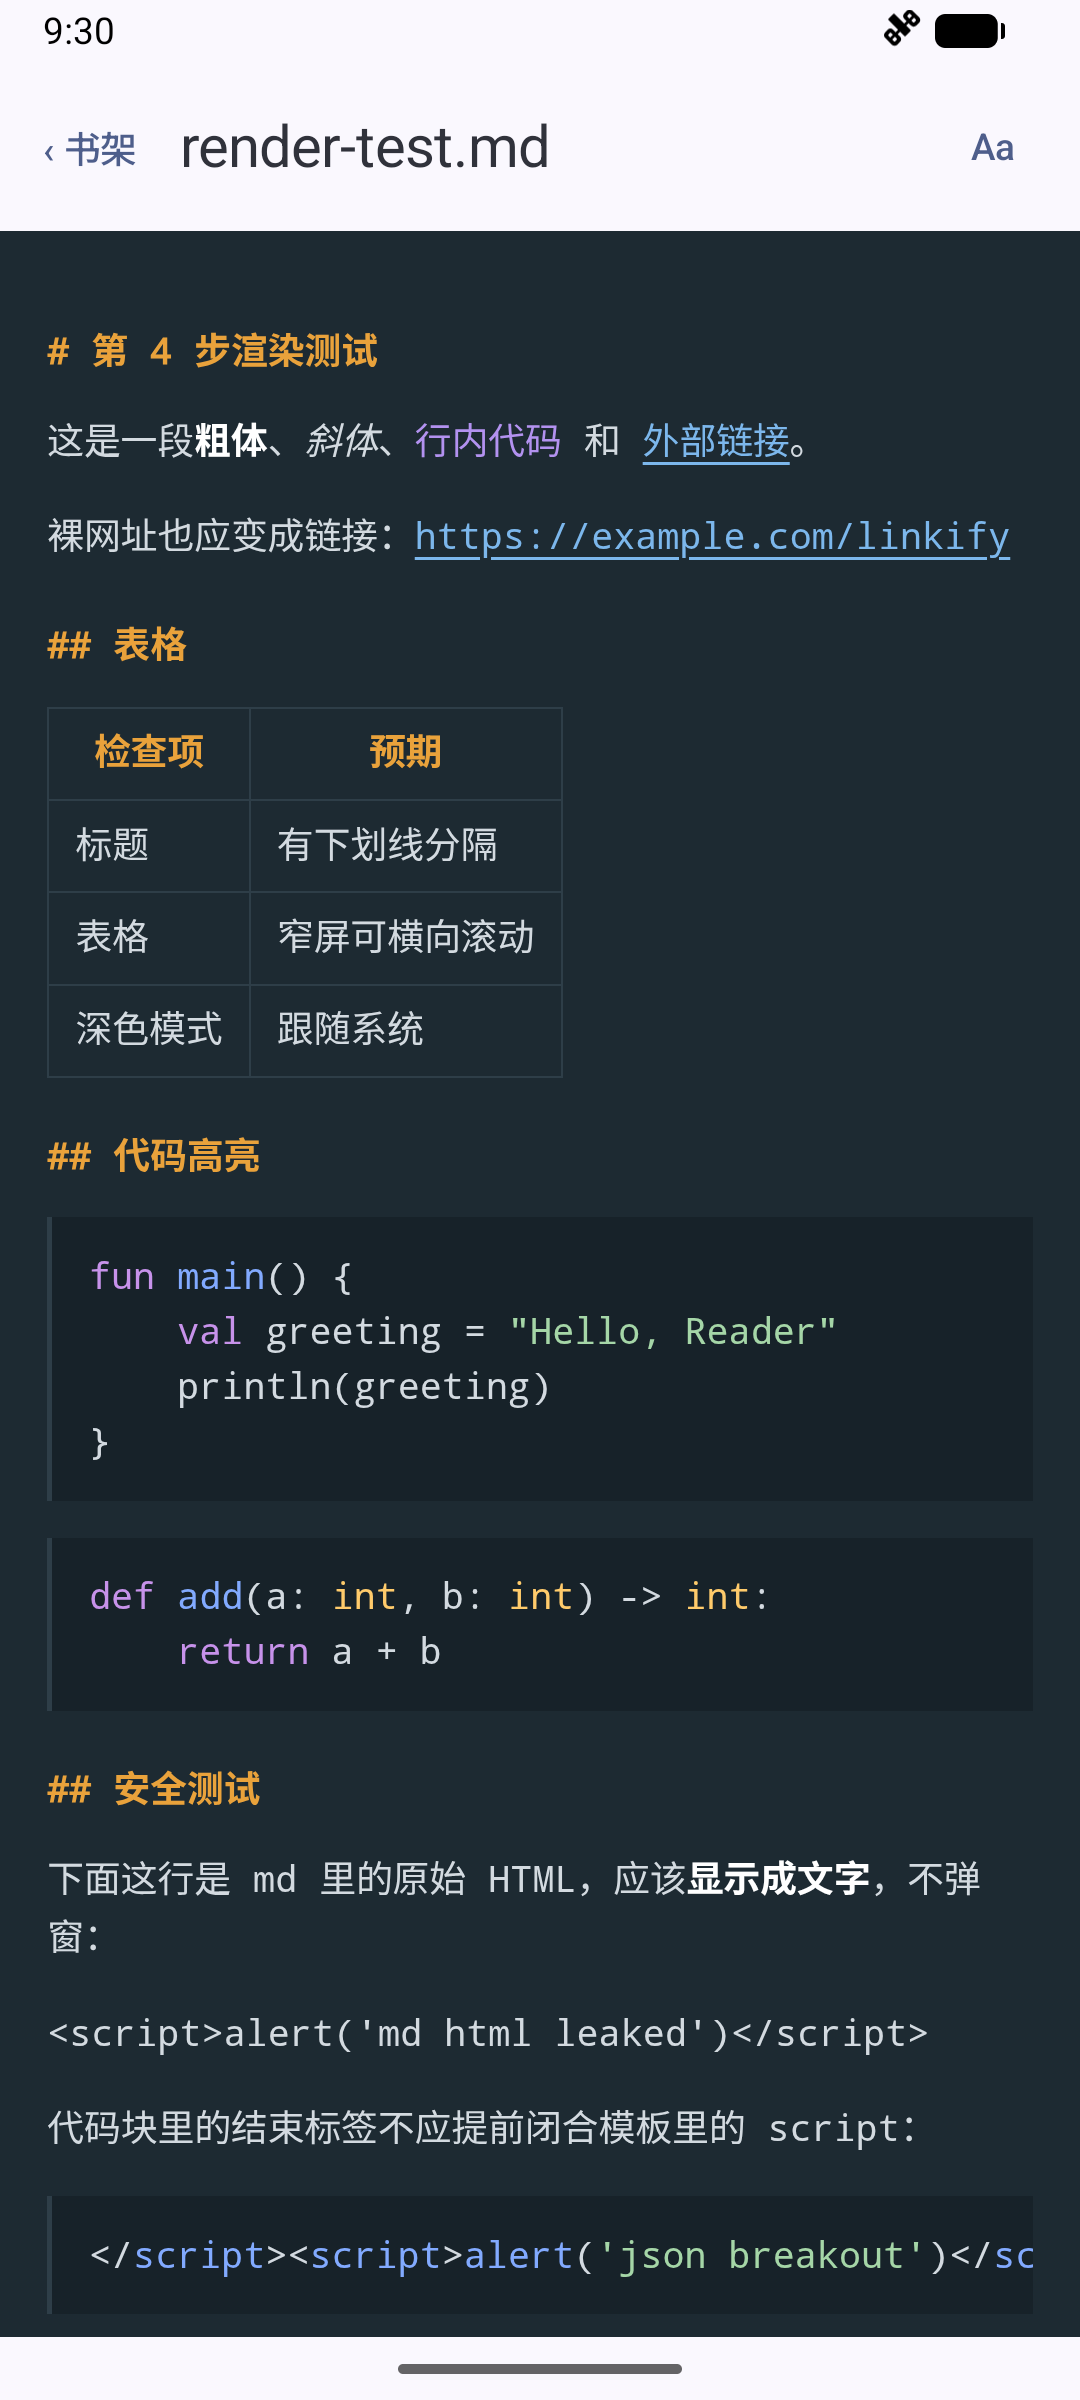
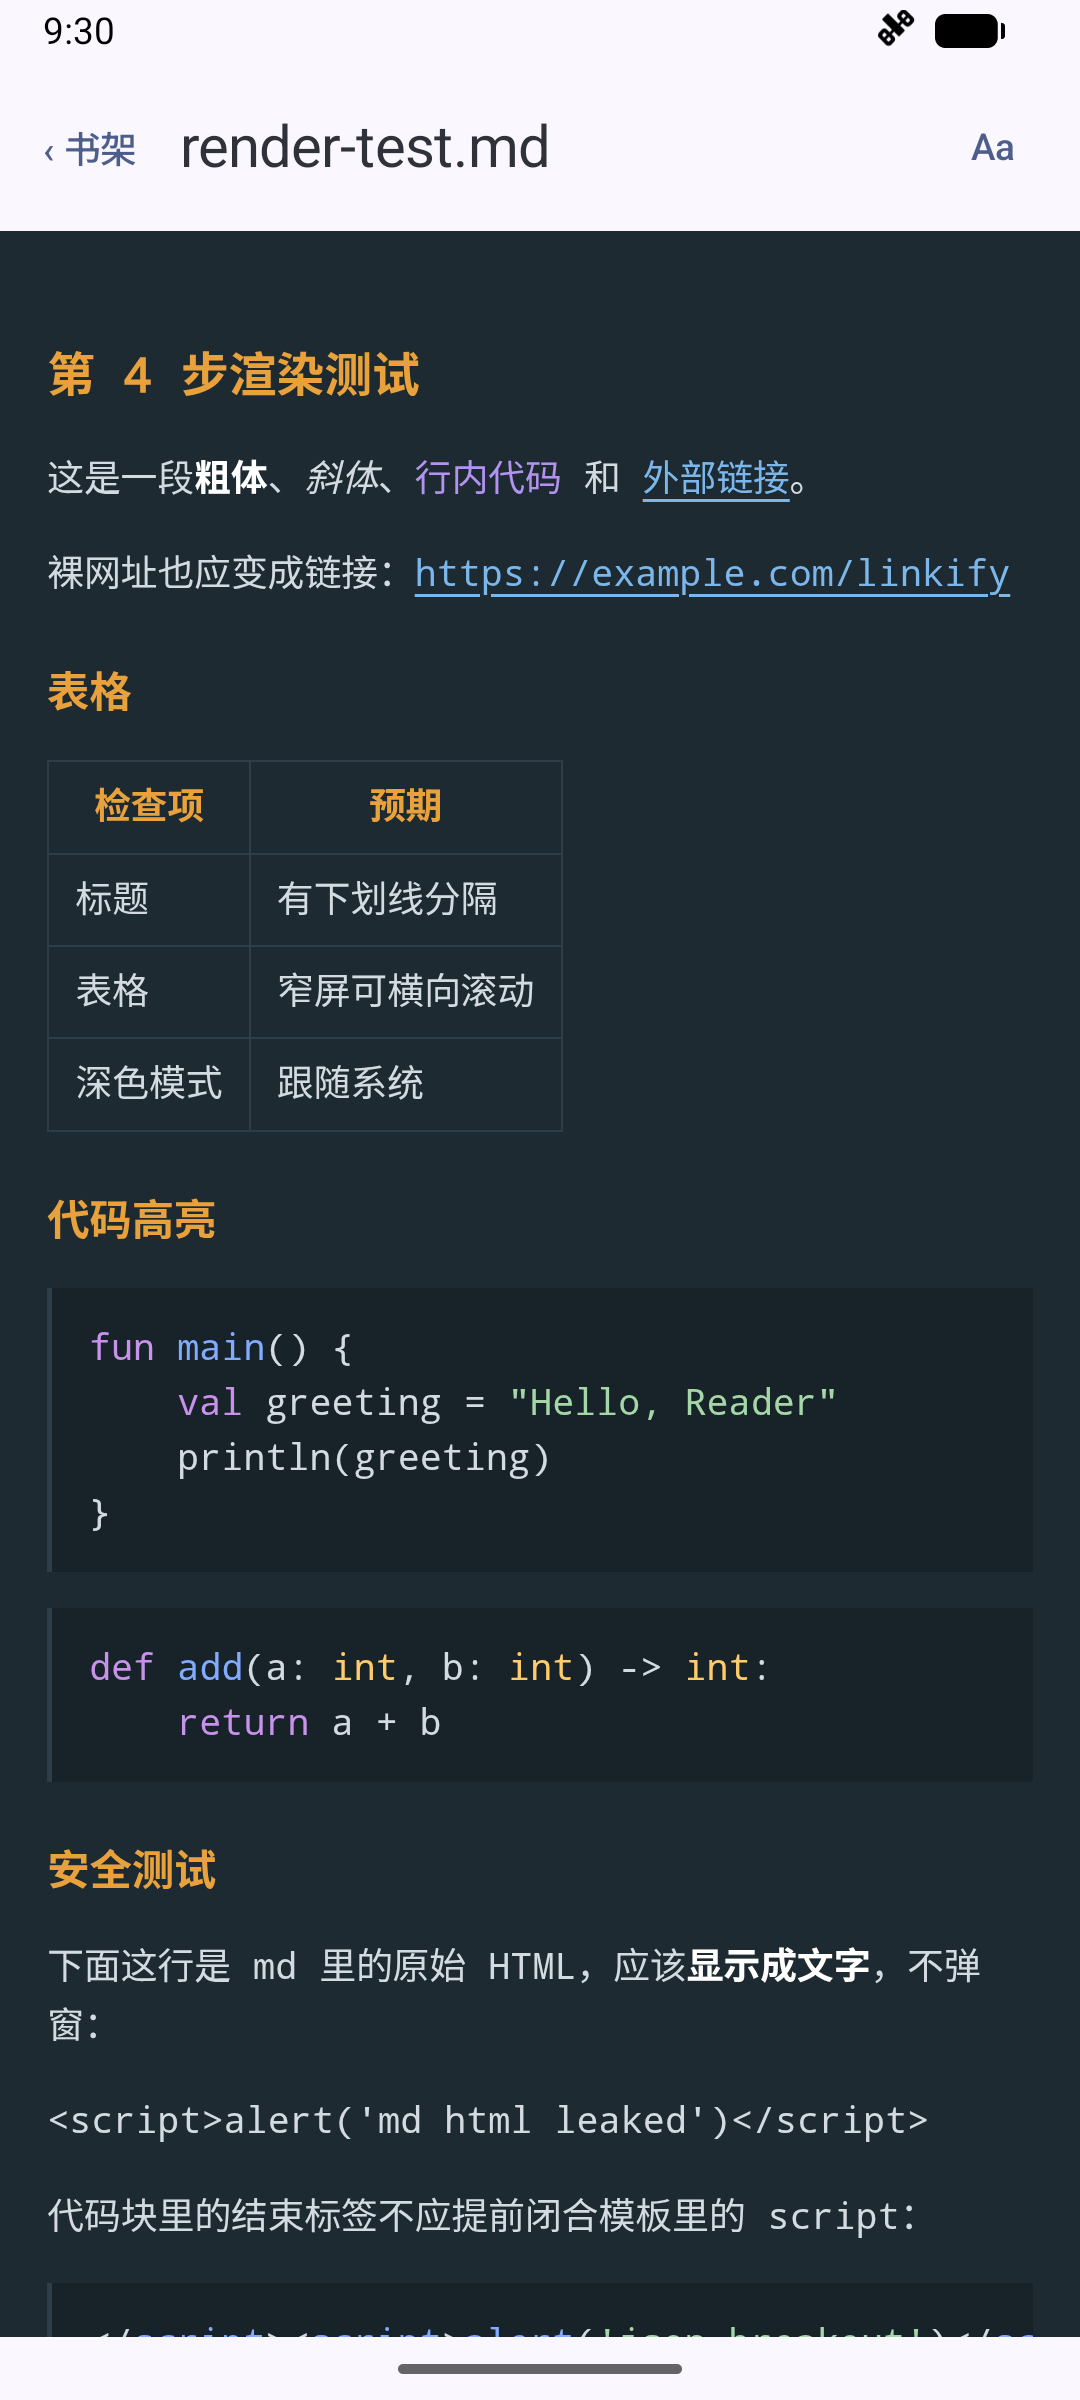
ui: distinguish terminal headings by size without hash prefixes

diff --git a/app/src/androidTest/java/com/example/yhviewer/ReaderThemeIntegrationTest.kt b/app/src/androidTest/java/com/example/yhviewer/ReaderThemeIntegrationTest.kt
@@ -102,7 +102,7 @@ class ReaderThemeIntegrationTest {
         "document.documentElement.getAttribute('data-theme')", "\"$id\"")
 
     @Test fun menuSwitchesAllThemesWithoutReloadOrScrollLoss() {
-        val markdown = source + "\n\n| Wide | Value |\n|---|---|\n| Width | " + "W".repeat(160) + " |\n" +
+        val markdown = source + "\n\n### Third level\n\n#### Fourth level\n\n##### Fifth level\n\n###### Sixth level\n\n| Wide | Value |\n|---|---|\n| Width | " + "W".repeat(160) + " |\n" +
             (1..70).joinToString("\n\n") { "Paragraph $it: enough content to retain a mid-document scroll position in every theme." }
         launch(document("theme-switch.md", markdown)).use { scenario ->
             ready(scenario)
@@ -127,7 +127,22 @@ class ReaderThemeIntegrationTest {
             }
             select("终端")
             theme(scenario, "terminal")
-            assertEquals("true", js(scenario, "getComputedStyle(document.querySelector('h1'),'::before').content.includes('#') && getComputedStyle(document.querySelector('a')).textDecorationLine.includes('underline')"))
+            assertEquals("true", js(scenario, """
+                (() => {
+                    const style = el => getComputedStyle(el);
+                    const size = el => parseFloat(style(el).fontSize);
+                    const body = size(document.body);
+                    const heads = [...document.querySelectorAll('h1,h2,h3,h4,h5,h6')];
+                    return heads.every(h => !getComputedStyle(h, '::before').content.includes('#')
+                        && style(h).color === 'rgb(233, 162, 59)' && style(h).fontWeight === '700')
+                        && Math.abs(size(document.querySelector('h1')) / body - 1.3) < .01
+                        && Math.abs(size(document.querySelector('h2')) / body - 1.15) < .01
+                        && [...document.querySelectorAll('h3,h4,h5,h6')].every(h => Math.abs(size(h) - body) < .1)
+                        && getComputedStyle(document.querySelector('ul > li'), '::before').content.includes('-')
+                        && getComputedStyle(document.querySelector('blockquote'), '::before').content.includes('>')
+                        && style(document.querySelector('a')).textDecorationLine.includes('underline');
+                })()
+            """.trimIndent()))
         }
     }
 

diff --git a/app/src/main/assets/md/template.html b/app/src/main/assets/md/template.html
@@ -107,12 +107,9 @@
     [data-theme="terminal"] h4, [data-theme="terminal"] h5, [data-theme="terminal"] h6 {
       font-size: 1em; font-weight: 700; border: 0; padding: 0; margin: 1.5em 0 .9em;
     }
-    [data-theme="terminal"] h1::before { content: "# "; }
-    [data-theme="terminal"] h2::before { content: "## "; }
-    [data-theme="terminal"] h3::before { content: "### "; }
-    [data-theme="terminal"] h4::before { content: "#### "; }
-    [data-theme="terminal"] h5::before { content: "##### "; }
-    [data-theme="terminal"] h6::before { content: "###### "; }
+    /* 不显示 # 号，层级靠字号区分（等宽字体下差距保持克制） */
+    [data-theme="terminal"] h1 { font-size: 1.3em; }
+    [data-theme="terminal"] h2 { font-size: 1.15em; }
     [data-theme="terminal"] ul { list-style: none; padding-left: 1.4em; }
     [data-theme="terminal"] ul > li { position: relative; }
     [data-theme="terminal"] ul > li::before { content: "-"; position: absolute; left: -1.2em; color: var(--marker); }

diff --git a/docs/verification/READER_THEMES.md b/docs/verification/READER_THEMES.md
@@ -24,7 +24,7 @@ BUILD SUCCESSFUL. Download-free local XML reports checked: **21 JVM + 30 instrum
 
 The 5 new device cases cover:
 
-1. All four menu choices, same WebView identity and JS sentinel, 600 CSS-pixel scroll position, no document-wide horizontal overflow, independently scrollable wide tables, theme-consistent highlighting, terminal markers/underlined links and invalid JS theme rejection.
+1. All four menu choices, same WebView identity and JS sentinel, 600 CSS-pixel scroll position, no document-wide horizontal overflow, independently scrollable wide tables, theme-consistent highlighting, terminal list/quote markers, heading sizes and underlined links and invalid JS theme rejection.
 2. Ink on a light system has dark code blocks; AUTO tracks both system modes; Paper stays light on a dark system.
 3. Theme selection survives closing and reopening the Activity with a new ViewModel.
 4. HTML has no Aa control and its own `setTheme()` is never called.
@@ -40,8 +40,14 @@ Installed the normal debug APK after instrumentation. Opened `render-test.md` fr
 
 The sample shelf was restored from its existing backup after the device test runner's app installation/cleanup. The displayed fixture is the existing rendering test document.
 
-| Paper | Ink on a light system | Terminal after cold start |
+| Paper | Ink on a light system | Terminal |
 |---|---|---|
 | ![](../screenshots/theme-paper.png) | ![](../screenshots/theme-ink.png) | ![](../screenshots/theme-terminal.png) |
 
 These are unedited native emulator screenshots. Demo status bar: 09:30, full battery, notifications hidden; demo settings restored after capture. App-bar recoloring and optional fonts remain out of scope.
+
+## Terminal heading revision
+
+Removed the six heading-prefix pseudo-elements. H1 is now 1.3em, H2 is 1.15em, and H3–H6 remain 1em; amber and bold are retained. List `-` and quote `>` markers remain unchanged.
+
+The existing theme-switch device case now checks all six heading levels, sizes, amber/bold styling, unchanged list/quote markers and link underlines, along with its existing no-reload/scroll assertions. It failed against the old prefixes before the CSS change. The revised case passes locally on API 37; the repository CI runs the full suite on API 34. No test cases were added, so the total remains 51. The Terminal screenshot is refreshed for this revision.
